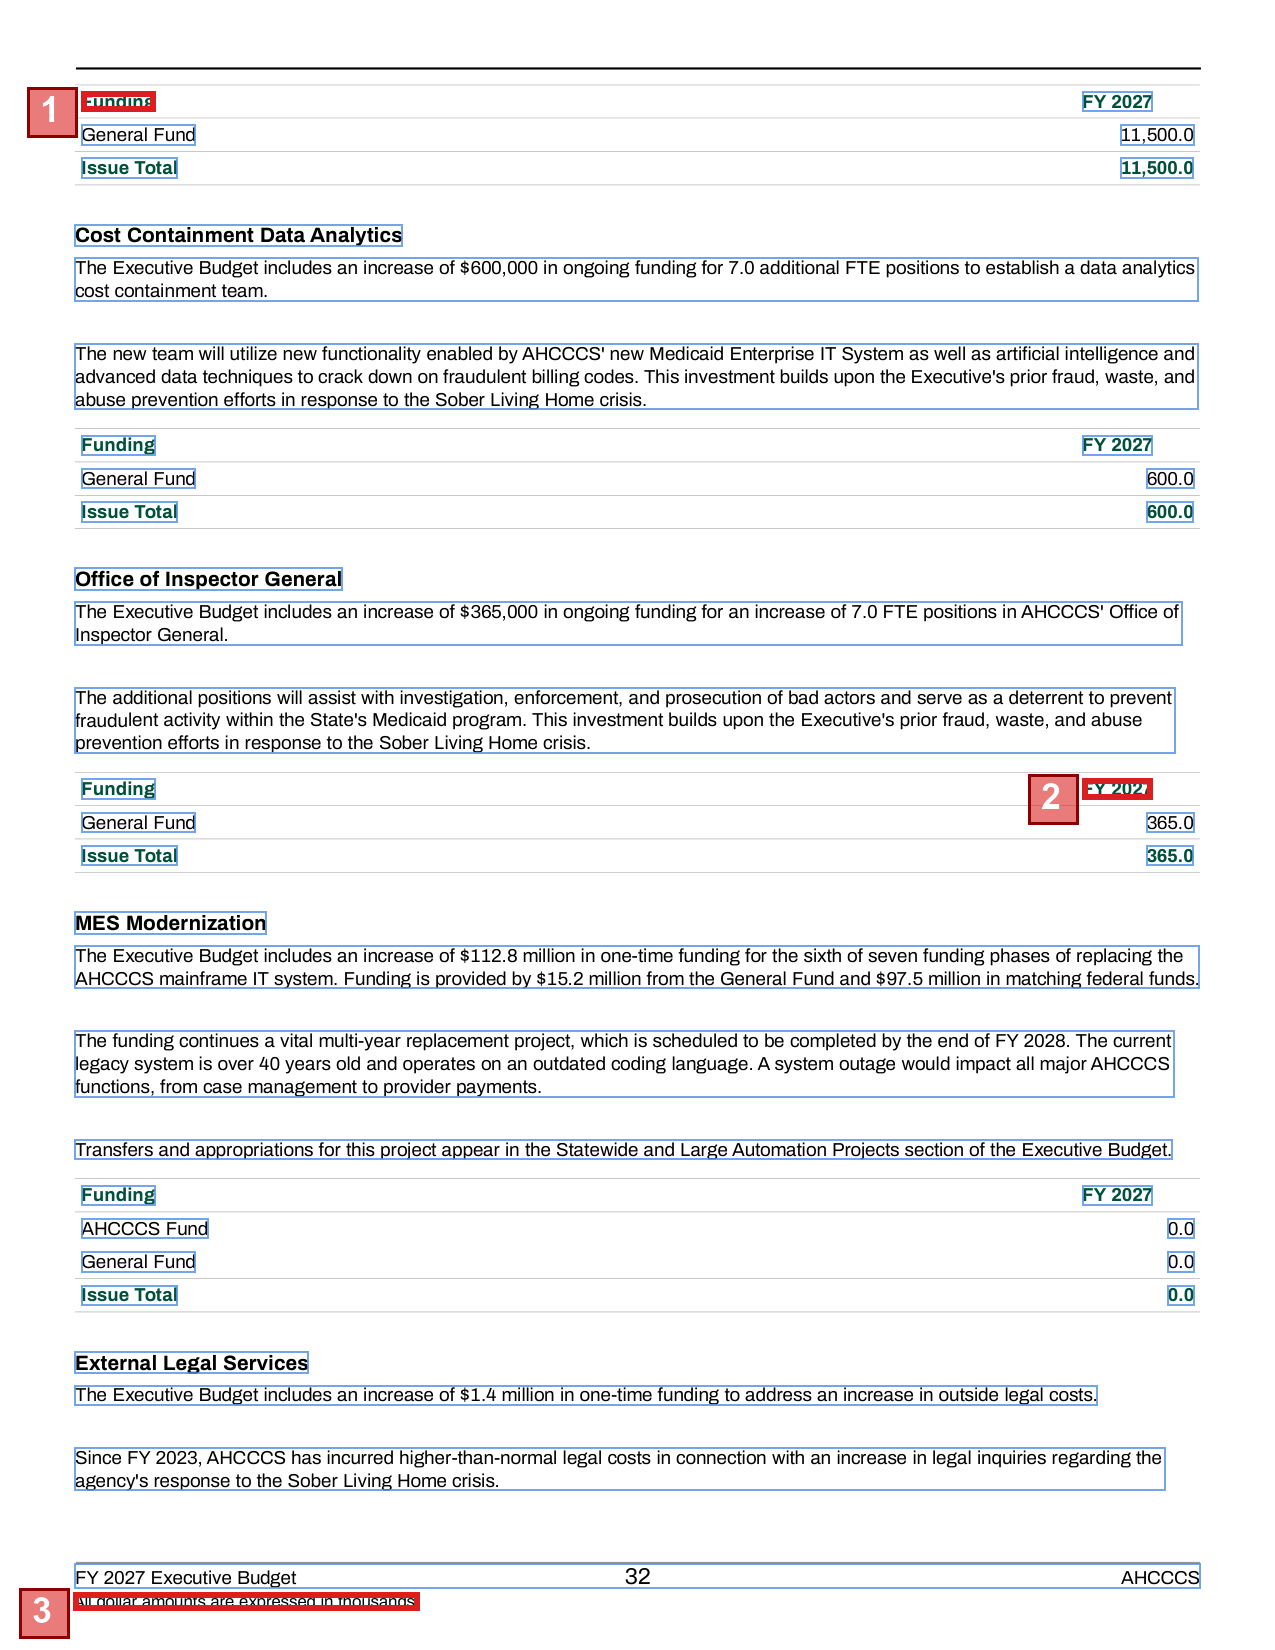
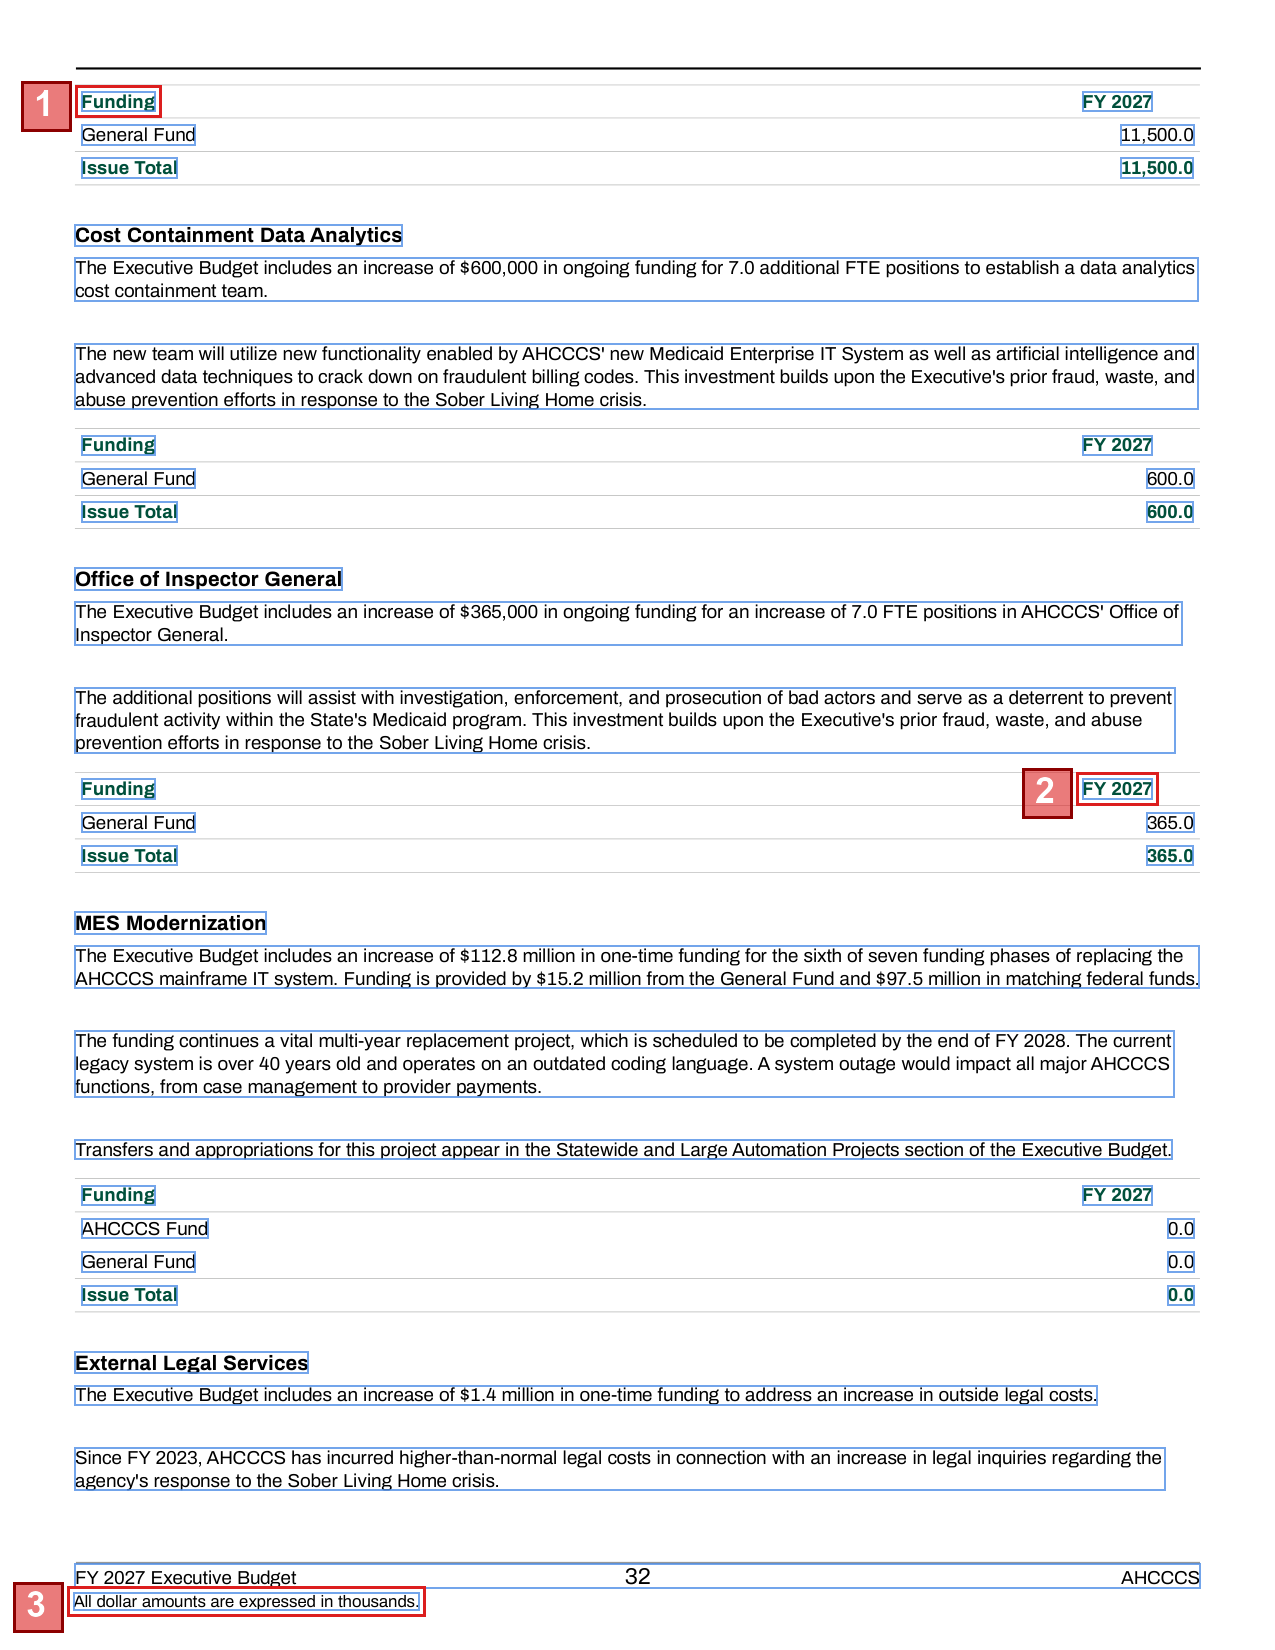
phase-0: inflate spot-check rectangles + thinner border (Task 8 readability)
Tight bbox outlines drawn at width=6 painted 3px over the glyphs they
were supposed to highlight, making the cell text the user is trying to
verify partially obscured. Two adjustments:

  - Inflate the rect by 6px outward before drawing — the border now
    sits clear of the text edges.
  - Drop border width from 6 to 3 — visible against the table grid
    without dominating the page.

Badge placement now anchors off the inflated outline rather than the
raw bbox, so it sits clear of the new visible border.

Changed region(s): [[0.0, 0.9582, 0.3365, 1.0], [0.0, 0.0309, 0.1224, 0.0927], [0.7953, 0.4636, 0.9176, 0.5255]]

diff --git a/scripts/render_score_previews.py b/scripts/render_score_previews.py
@@ -184,21 +184,27 @@ def render_page(
         rect = to_image_xyxy(s["bbox"])
         if rect[2] <= rect[0] or rect[3] <= rect[1]:
             continue
-        draw.rectangle(rect, outline=(220, 30, 30, 255), width=6)
+        # Inflate the spot-check rect outward so the border sits clear of
+        # the text edges (a tight-bbox outline at width=6 paints 3px over
+        # the glyphs themselves). Padding chosen empirically — 6px at
+        # 150 DPI keeps the outline visibly outside the text without
+        # making adjacent spot-checks overlap each other.
+        pad = 6
+        outset = (rect[0] - pad, rect[1] - pad, rect[2] + pad, rect[3] + pad)
+        draw.rectangle(outset, outline=(220, 30, 30, 255), width=3)
         # Badge: 50×50 translucent red. Translucency is the difference
         # between "I can read the cell underneath" (good) and "the badge
         # erases the content I'm trying to verify" (bad — caught during
         # 2026-05-05 review). Alpha ~150/255 lets text show through.
         # Outline + text stay full-alpha so the badge remains visible.
         badge_size = 50
-        # Placement: try LEFT of bbox first, then ABOVE, then fall back
-        # inside the upper-left corner.
-        bx0 = rect[0] - badge_size - 4
-        by0 = rect[1] - 4
+        # Placement: try LEFT of the inflated outline first, then ABOVE,
+        # then fall back inside the bbox upper-left.
+        bx0 = outset[0] - badge_size - 4
+        by0 = outset[1] - 4
         if bx0 < 0:
-            # Try above the bbox instead of overlapping the content.
-            bx0_above = rect[0]
-            by0_above = rect[1] - badge_size - 4
+            bx0_above = outset[0]
+            by0_above = outset[1] - badge_size - 4
             if by0_above >= 0:
                 bx0, by0 = bx0_above, by0_above
             else:
